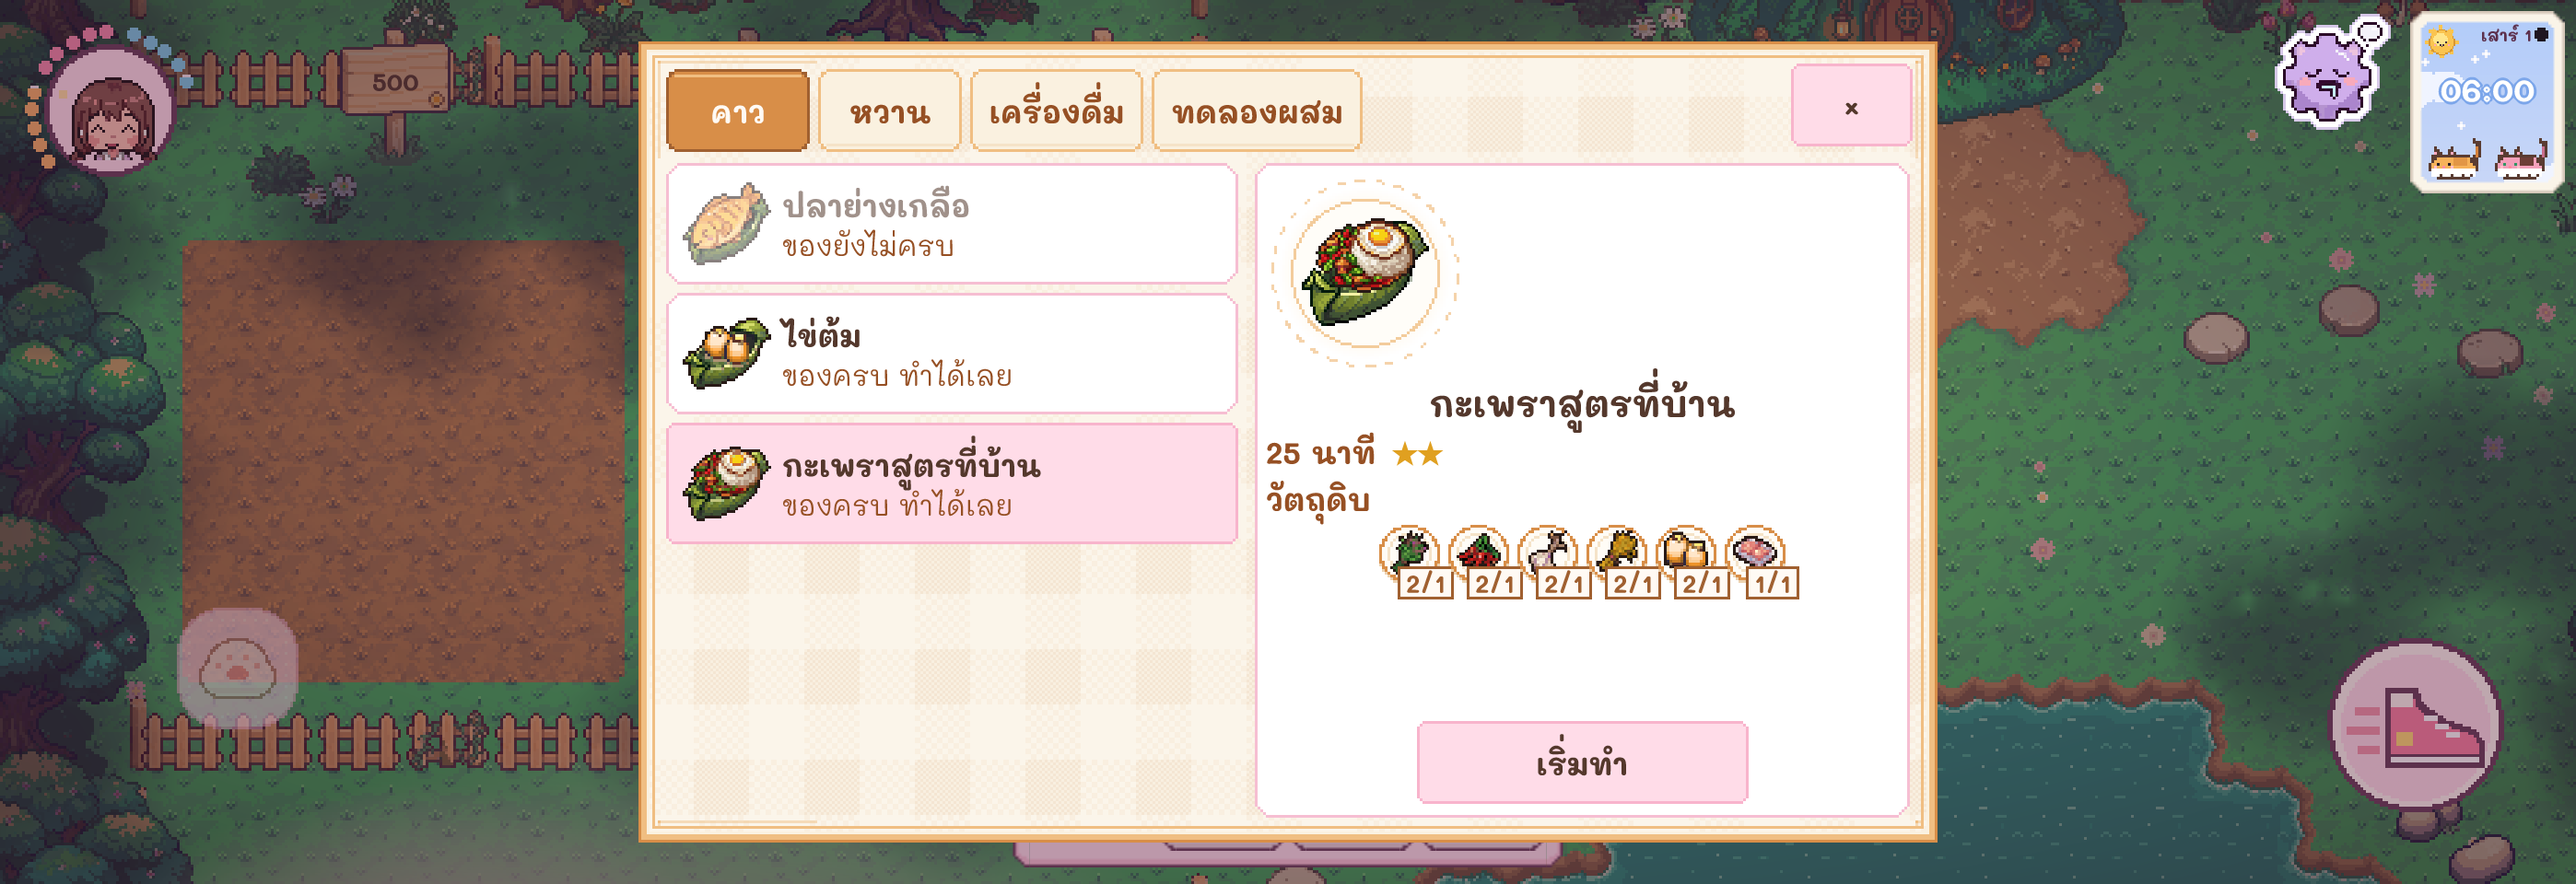
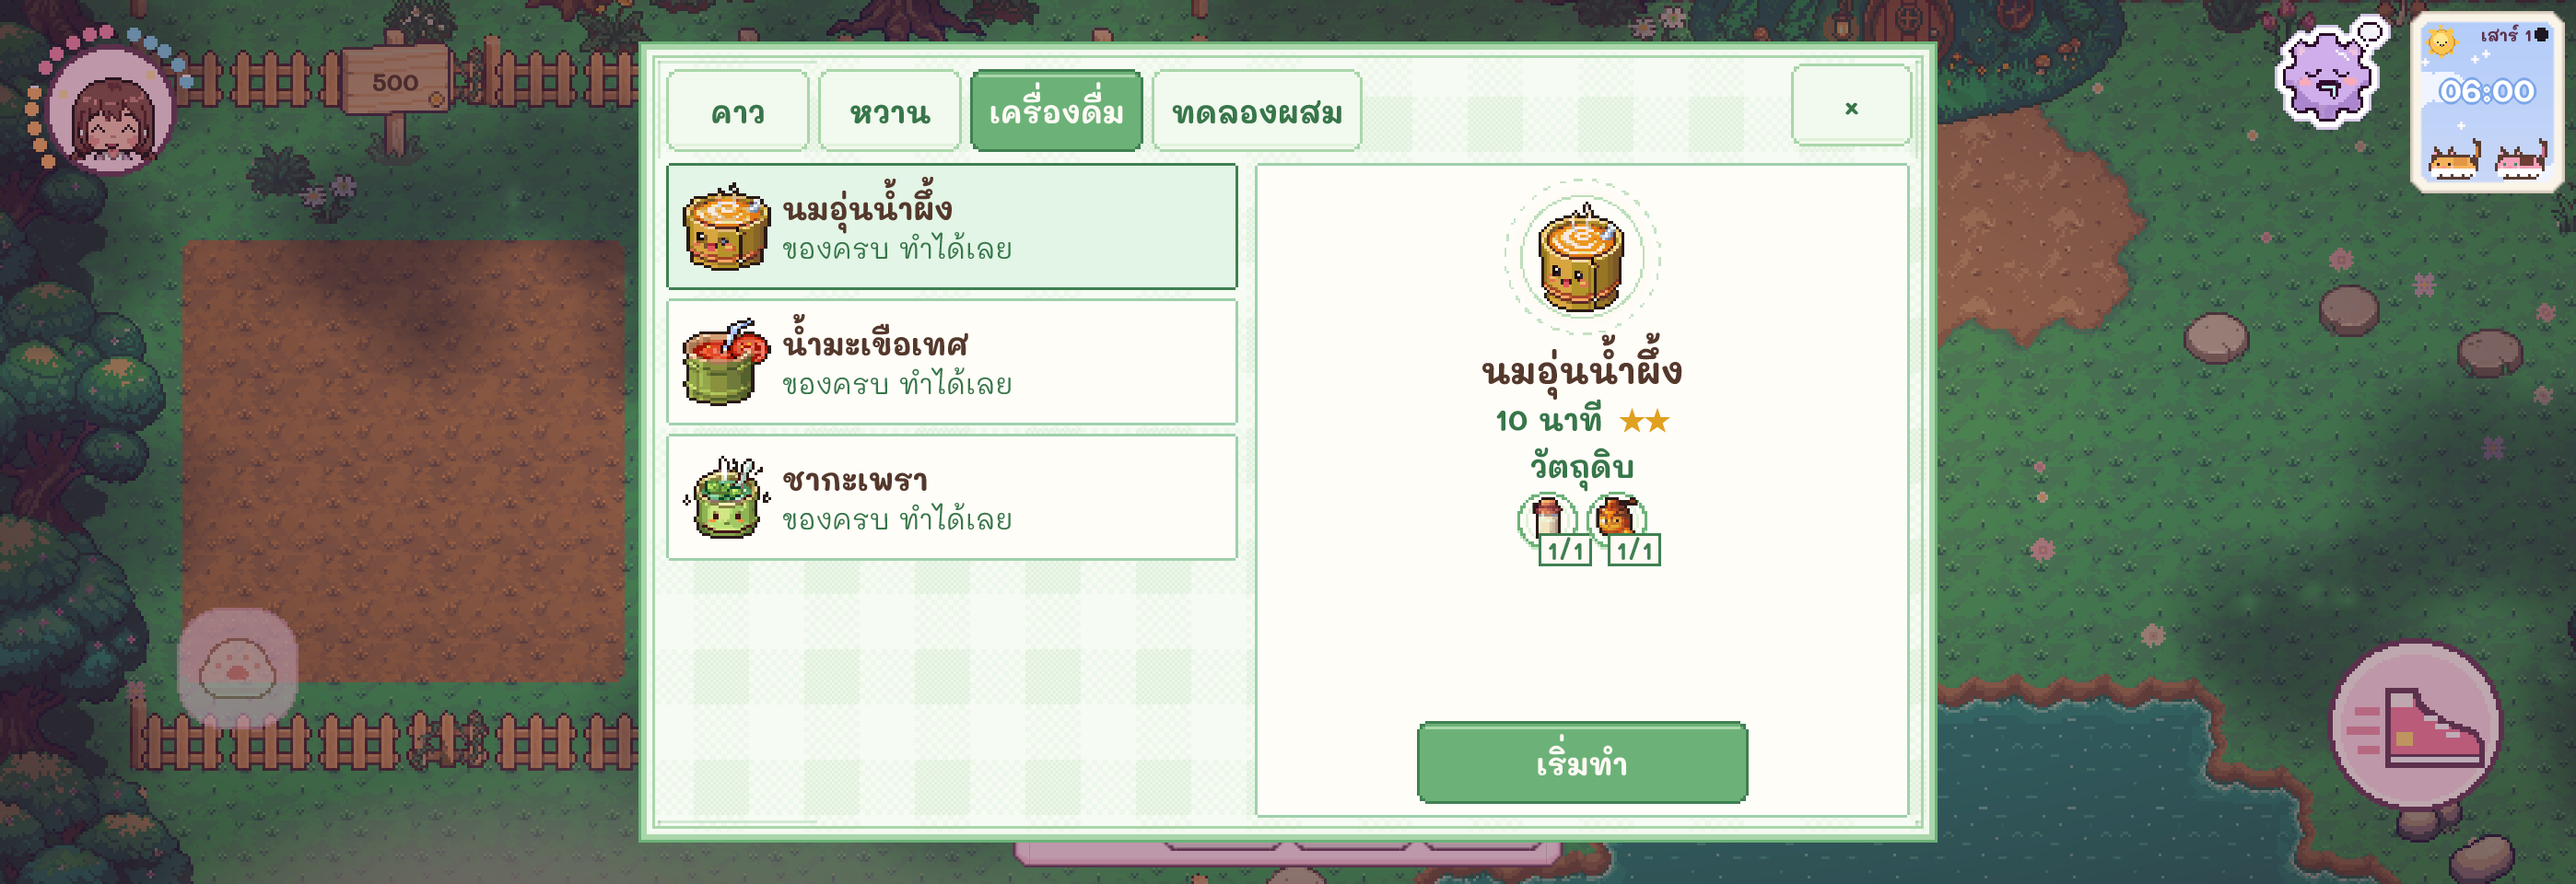
M4: หน้าต่างทำอาหารใช้สีธีมเดียวกันทุกชิ้น และจัดการ์ดขวาให้อยู่กลาง

Changed region(s): [[0.2489, 0.0312, 0.7779, 0.9688], [0.529, 0.375, 0.7157, 0.6875], [0.5912, 0.2188, 0.6534, 0.375]]

diff --git a/src/ui/styles.css b/src/ui/styles.css
@@ -2873,3 +2873,76 @@ canvas {
 .cook-actions {
   align-self: center;
 }
+
+/* ทุกชิ้นในหน้าต่างทำอาหารใช้สีธีมเดียวกัน */
+.cook-panel {
+  --card-edge: #e6b58a;
+  --card-pick: #fde7d2;
+}
+
+.cook-panel[data-theme='sweet'] {
+  --card-edge: #f0a8c2;
+  --card-pick: #fde3ec;
+}
+
+.cook-panel[data-theme='drink'] {
+  --card-edge: #9fd0ac;
+  --card-pick: #e2f5e6;
+}
+
+.cook-card,
+.cook-panel .cook-detail {
+  margin: calc(var(--px) * 1);
+  border: 0;
+  border-image: none;
+  background: #fffdf8;
+  box-shadow: 0 calc(var(--px) * -1) 0 0 var(--card-edge), 0 calc(var(--px) * 1) 0 0 var(--card-edge), calc(var(--px) * -1) 0 0 0 var(--card-edge), calc(var(--px) * 1) 0 0 0 var(--card-edge);
+}
+
+.cook-card.is-selected {
+  border: 0;
+  border-image: none;
+  background: var(--card-pick);
+  box-shadow: 0 calc(var(--px) * -1) 0 0 var(--book-ad), 0 calc(var(--px) * 1) 0 0 var(--book-ad), calc(var(--px) * -1) 0 0 0 var(--book-ad), calc(var(--px) * 1) 0 0 0 var(--book-ad);
+}
+
+.cook-panel .phone-tool {
+  border-image-source: var(--theme-soft);
+  border-image-slice: 5 fill;
+  color: var(--book-text);
+}
+
+.cook-panel .cook-go,
+.cook-panel #mix-go {
+  border-image-source: var(--theme-button);
+  color: #fffaf4;
+}
+
+.cook-panel .phone-tool:disabled {
+  opacity: 0.5;
+}
+
+/* การ์ดขวาจัดกลางทั้งหมด อ่านจากบนลงล่าง */
+.cook-panel .cook-detail {
+  align-items: center;
+  justify-content: space-between;
+  text-align: center;
+}
+
+.cook-label {
+  align-self: center;
+}
+
+.cook-facts {
+  justify-content: center;
+}
+
+.cook-dish {
+  width: calc(var(--px) * 60);
+  height: calc(var(--px) * 60);
+}
+
+.cook-dish__icon {
+  top: calc(var(--px) * 6);
+  left: calc(var(--px) * 6);
+}

diff --git a/src/ui/cooking.ts b/src/ui/cooking.ts
@@ -241,6 +241,9 @@ export function createCookingWindow(uiRoot: HTMLElement): void {
     panel.dataset.theme = theme;
     panel.dataset.tab = tab;
     panel.style.setProperty('--cloth', bookArt(`book_cloth_${theme}`));
+    // ปุ่มในหน้าต่างใช้แท็บสีเดียวกับธีม ไม่ปนชมพูของโทรศัพท์
+    panel.style.setProperty('--theme-button', bookArt(`book_tab_active_${theme}`));
+    panel.style.setProperty('--theme-soft', bookArt(`book_tab_${theme}`));
     frame.style.borderImageSource = bookArt(`book_frame_${theme}_9slice`);
     tabs.replaceChildren(
       ...TABS.map(({ id, label }) => {
